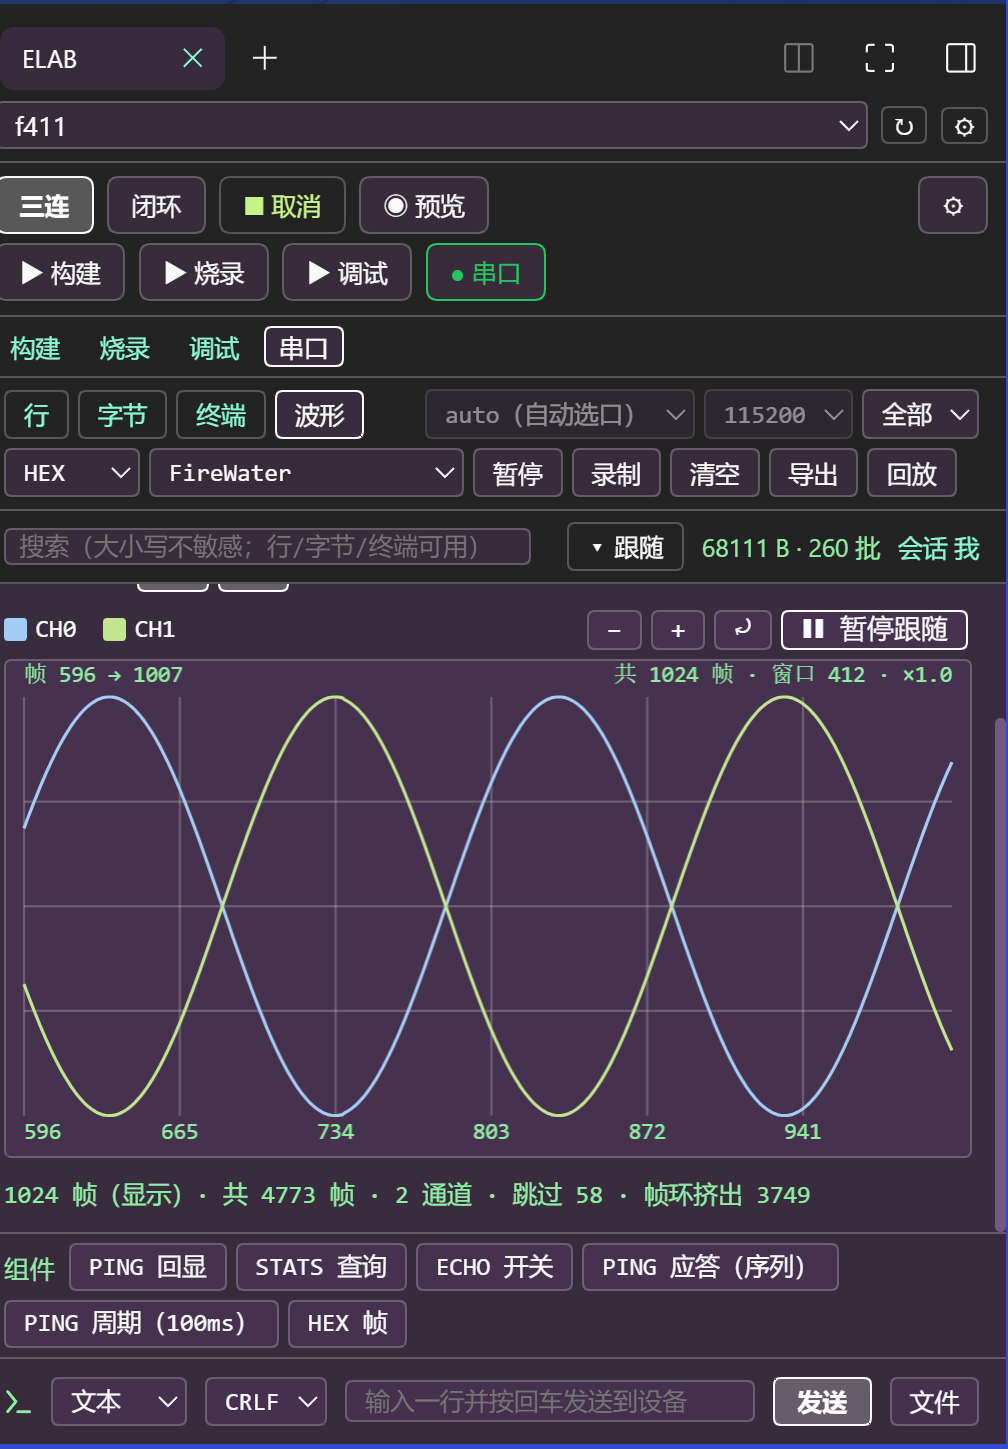
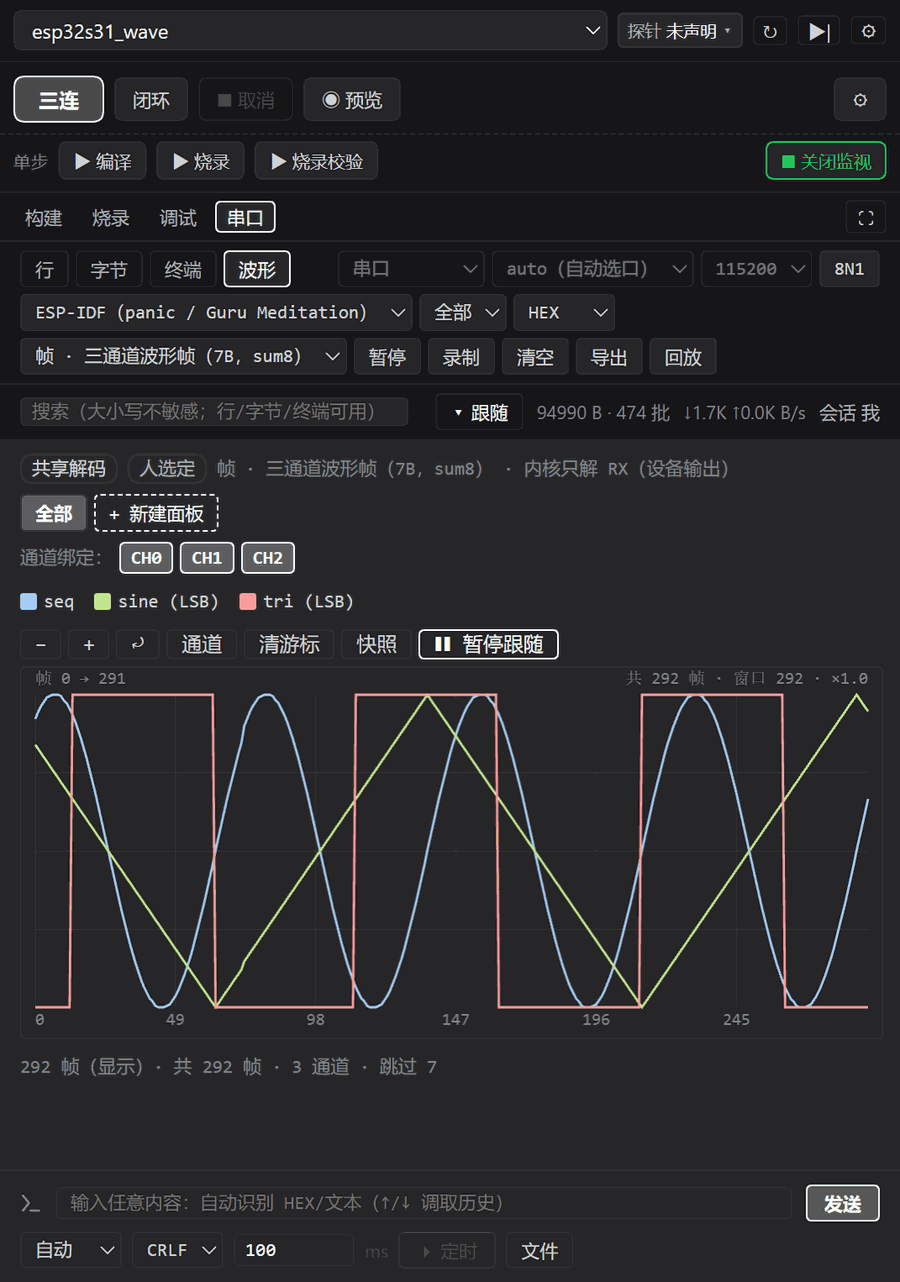
docs(market): 插件市场展示面更新 + Release 发布流程沉淀
市场展示面（卡片图 + 简介）
- 卡片图：2 张 v3.0.0 时期的旧 UI 换成 4 张 v4.0.0 真机窄栏图
  （闭环三连 / 串口监视 / 源码级调试 / 波形解码），`screenshots.json` 同步；
  删掉被取代的 `dsh-serial-lines.png`。
- 压缩配方：LANCZOS 缩放（统一宽 900）+ P256 调色板量化（244 KB → 83 KB），
  量化后目视复查文字清晰无色带；npm 包体积反而从 612.1 kB 降到 562.8 kB。
- 市场条目中英简介按新能力面重写：多芯（STM32/AT32/ESP32）、源码级调试、
  帧协议解码、Agent 自学习协议。

GitHub Release 发布物料
- 新增 `docs/releases/v4.0.0.md`：tag `v4.0.0` 的 Release 正文，
  含定位 / 本版要点 / 安装 / 升级注意 / 验证状态五块，可直接当 `--notes-file`。
- `docs/README.md` 登记 `releases/` 分类。

skill 沉淀（`.agents/skills/elab-release`）
- §7 扩为「dsh-market」两节：7.1 展示面 = 图 + 简介（两者来源不同、必须同步改）、
  压缩配方、选图标准、流程；7.2 什么变化走探针、什么变化要提市场 PR。
- 新增 §8「主仓 GitHub Release 同步发布」：正文入库而非临时现编、
  发布顺序（main → CI 绿 → tag → Release）、挂已推送 tag、
  无 gh CLI / 网络不通时只备料不发、「发布 ≠ 改文件」的边界。
- §2 清理节加一条反向守卫：screenshots.json 列了但 assets 没有 = 市场图裂了。
- §5 网络节改为「先探测端口再推」，并记录本次实测：4507/7890/7891/10809 全关、
  api.github.com 不可达、npm registry 直连可用。
- §11 纪律补一条：用户说「先不推送」时只做到物料备好 + 本地提交。

门禁：插件 npm test 156 pass / tsc host+client 无错 / npm run build PASS；
内核 unittest 638 passed 5 skipped；改动文件行尾与 HEAD 比对 0 翻转。

未推送：本次为本地改动，push / npm publish / gh release create 均未执行
（代理未开，等指令）。

diff --git a/.agents/skills/elab-release/SKILL.md b/.agents/skills/elab-release/SKILL.md
@@ -1,6 +1,6 @@
 ---
 name: elab-release
-description: elab-Flow 主仓与 dsh-elab-cockpit 插件的版本更新、发版与维护流程（单仓单标签）：版本落点、门禁、内核 v* 标签、npm 发布、dsh-market 自动刷新与回滚。触发：用户说要发版 / 版本更新 / 升级版本 / 打 tag / npm publish / 发布插件 / 市场更新 / 维护仓库。
+description: elab-Flow 主仓与 dsh-elab-cockpit 插件的版本更新、发版与维护流程（单仓单标签）：版本落点、门禁、内核 v* 标签、npm 发布、GitHub Release 同步发布、插件市场展示面（截图 + 简介）更新、dsh-market 自动刷新与回滚。触发：用户说要发版 / 版本更新 / 升级版本 / 打 tag / npm publish / 发布插件 / 发 release / 市场更新 / 换市场图 / 改市场简介 / 维护仓库。
 ---
 
 # elab-Flow 版本更新与发布
@@ -32,7 +32,9 @@ description: elab-Flow 主仓与 dsh-elab-cockpit 插件的版本更新、发版
 - 临时文件：`tmp_*.txt`、`tmp_*` 配置、根目录调试脚本。
 - 缓存：`__pycache__/`、`.pytest_cache/`、构建中间物（`.work/` 不入库）。
 - 未引用截图：`git grep --fixed-strings <文件名>` 计数为 0 且不在 `screenshots.json` 的才删。
+  —— 反过来也成立：`screenshots.json` 里列了但 `assets/` 里没有 = 市场展示图裂了，发版前必查。
 - 确认构建产物归属：`cockpit/web/dist/**` 与插件 `lib/**` 是**入库产物**，改源码后必须重建。
+- 市场展示图与简介：见 §7（换图 = 改 `assets/` + 改 `screenshots.json` + 改市场条目简介）。
 
 ## 3. 门禁（缺一不可）
 
@@ -85,14 +87,22 @@ git push origin v3.0.0        # ② 绿了再推 tag
 
 ## 5. 网络与代理（GitHub 推送）
 
-- 本机系统代理常为 `127.0.0.1:7890`（Clash mixed，HTTP/SOCKS 都收）。git 不读系统代理，
-  需要显式给：
-  ```powershell
-  git -c http.proxy=http://127.0.0.1:7890 -c https.proxy=http://127.0.0.1:7890 push origin main
+- **代理端口会变，每次先探测再推**，不要沿用文档里的旧端口：
+  ```bash
+  for p in 4507 7890 7891 10809; do
+    timeout 2 bash -c "echo > /dev/tcp/127.0.0.1/$p" 2>/dev/null && echo "$p OPEN" || echo "$p closed"
+  done
+  ```
+  本机历史端口：`7890`（Clash mixed）、`7891`、`4507`（环境变量口）。**以实测为准**。
+- git 不读系统代理，需要显式给：
+  ```bash
+  git -c http.proxy=http://127.0.0.1:<探测到的端口> -c https.proxy=http://127.0.0.1:<端口> push origin main
   ```
 - 节点抖动时会报 `schannel: failed to receive handshake` 或 `unexpected eof` —— **重试 1–2 次**
   通常就好；持续失败再换节点，不要误判为凭据问题。
-- 无代理时 `api.github.com` 常不可达；`npm publish` 可直连，不用代理。
+- **代理全关时**：`api.github.com` / `github.com` 不可达，但 `registry.npmjs.org` 通常直连可用。
+  此时**只做本地改动**（版本号 + 物料 + 提交），push / publish / release 全部等指令；
+  别反复重试网络（见 §8.3 与 §11 纪律）。
 
 ## 6. npm 发布
 
@@ -119,7 +129,115 @@ npm publish                         # 默认 latest
   `packages/dsh-elab-cockpit/docs/dsh-market-submission/`。
 - 截图来源：插件根 `screenshots.json`（路径相对包根），新图必须同时进 `assets/`。
 
-## 8. 发布后核对
+### 7.1 展示面 = 图 + 简介，两样必须一起更新
+
+市场条目拆成两块，**由不同来源提供**，只改一块会露馅：
+
+| 展示位 | 来源 | 改法 |
+|---|---|---|
+| 卡片图（多张轮播） | 插件根 `screenshots.json` → `assets/*.png` | 换图 + 改 `screenshots.json` 清单 |
+| 卡片简介（中英） | 市场条目 yml 的 `description.en` / `description.zh` | 改 yml（备份在本仓 `docs/dsh-market-submission/`） |
+
+**换图时两处都要动**：`screenshots.json` 是清单（决定展示哪几张、什么顺序），
+`assets/` 是图本体。只加图不改清单 = 新图不展示；只改清单不换图 = 展示的还是旧 UI。
+
+图的选择标准：**必须是当前 UI 的真机窄栏截图**，且覆盖版本的核心能力面。
+不要用 WebUI 宽屏图（那是独立 WebUI，DSH 插件展示的是窄栏）。
+
+**压缩配方**（市场图进 npm 包，别把包撑大）：
+
+```python
+from PIL import Image
+im = Image.open(src).convert('RGB')
+r = im.resize((900, round(im.height * 900 / im.width)), Image.LANCZOS)   # 统一宽 900
+r.quantize(colors=256, method=Image.FASTOCTREE,
+           dither=Image.FLOYDSTEINBERG).save(dst, optimize=True)          # P256 量化
+```
+
+- LANCZOS 缩放 + 256 色调色板量化：244 KB → 83 KB，肉眼无色带、文字仍清晰。
+- **量化后必须目视复查**（看整图 + 裁一块放大看文字），别只看文件大小。
+- `ffmpeg` 能用但压 PNG 收益差（只做 `scale` 反而变大），优先 Pillow。
+
+**流程**：
+
+1. 从 `docs/tutorials/assets/dsh/`（DSH 窄栏）与 `docs/tutorials/assets/wave/`（窄栏波形）
+   挑真机图；`webui/` / `serial-frames/` 是独立 WebUI，**不要**用于插件市场。
+2. 按上式压缩，落到 `packages/dsh-elab-cockpit/assets/<语义名>.png`。
+   命名用语义（`dsh-closed-loop.png` / `dsh-serial-monitor.png` / `dsh-debug-source.png` /
+   `dsh-serial-wave.png`），不要用序号 —— 删图后序号会错位。
+3. 改 `screenshots.json` 清单（顺序 = 展示顺序，第一张是封面）。
+4. 改市场条目 yml 的 `description.en` / `description.zh`（本仓备份文件里改）。
+5. `npm pack --dry-run` 核对包体积；`JSON.parse` 校验 json 合法。
+6. 提交后推 main → 探针次日刷新；**简介变化要另提 awesome-dsh-plugin 的 PR**
+   （展示信息不走探针刷新）。
+
+### 7.2 什么时候必须提市场 PR
+
+| 变化 | 走探针（推 main 即可） | 要提 PR |
+|---|---|---|
+| 版本号 / 下载量 | ✅ | |
+| 卡片图（`screenshots.json` + `assets/`） | ✅ | |
+| 简介 / 分类 / 名字 | | ✅ |
+
+提 PR 前确认备份 yml 与目标一致（`packages/dsh-elab-cockpit/docs/dsh-market-submission/`）。
+
+## 8. 主仓 GitHub Release（同步发布）
+
+内核发版（打 `vX.Y.Z` tag）时，**GitHub Release 与 tag 一起发**，否则 tag 只是个指针，
+用户点进去没有说明。插件单独发版**不发**主仓 Release。
+
+### 8.1 Release 正文放仓库里，不临时现编
+
+正文文件：**`docs/releases/vX.Y.Z.md`**（如 [v4.0.0.md](file:///c:/Users/xiao1/Desktop/ELAB/dsh-elab-flow/docs/releases/v4.0.0.md)），
+入库、跟着版本走、可回溯。发布时直接把它当 body。
+
+正文按这五块写（现成范例见 `docs/releases/v4.0.0.md`）：
+
+1. **这是什么** —— 一句话定位 + 本版是主仓大版本还是插件版；
+2. **本版要点** —— 按能力面分节，每节 3–6 条，动词开头（"新增…/支持…/迁移为…"），
+   写**做了什么**而不是改了哪个文件；
+3. **安装** —— 可直接复制的命令（npm / git clone / bootstrap）；
+4. **升级注意** —— 破坏性变更、兼容下限、迁移提示（用户最需要的一段，别省）；
+5. **验证状态** —— 门禁结果表 + 实机验证过的机型。
+
+插件侧变更合并成正文里的一节（标注 `DSH 插件 x.y.z`），
+**不要**在主仓 Release 里贴插件的完整 CHANGELOG 条目。
+
+### 8.2 发布顺序
+
+```bash
+git push origin main                                  # ① 先推 main
+# ② 等 CI 绿（badge: .../plugin.yml/badge.svg?branch=main&cb=<随机数>）
+git tag -a v4.0.0 -m "elab-Flow v4.0.0"              # ③ 绿了再打 tag
+git push origin v4.0.0                               # ④ 推 tag
+gh release create v4.0.0 --title "elab-Flow v4.0.0" \
+  --notes-file docs/releases/v4.0.0.md                # ⑤ 发 Release（挂在已有 tag 上）
+```
+
+- **顺序不变**：先 main、再 tag、最后 Release。反过来会让 tag 自带红灯。
+- Release 必须**挂在已推送的 tag 上**（`gh release create vX.Y.Z`），不要让 GitHub 自动新建 tag ——
+  自动建的 tag 可能指向错误的提交。
+- 用 `--notes-file` 而不是 `--notes`（正文长，命令行转义容易出错）。
+
+### 8.3 没有 gh CLI / 网络不通时
+
+本机**无 `gh` CLI**，且 GitHub 网页与 `api.github.com` 在直连下常不可达（需代理）。
+这种情况**只备料不发布**：把 `docs/releases/vX.Y.Z.md` 写好入库、tag 打本地，
+等网络可用再执行 §8.2 的 ③④⑤ 步。**不要**为了发 Release 去动远端的其它状态。
+
+发 Release 属于**发布动作**，不是「改文件」——用户说「先不推送」时，
+只做到「物料备好 + tag 打本地」为止，push / publish / release 一律等明确指令。
+
+### 8.4 发布后核对（Release 专属）
+
+| 项 | 怎么查 |
+|---|---|
+| tag 存在且指向正确提交 | `git ls-remote --tags origin v4.0.0`（`^{}` 行才是提交） |
+| Release 存在 | `https://github.com/xkk6663/elab-flow/releases/tag/v4.0.0` |
+| Release 正文对得上 | 打开页面看首屏与「安装」段 |
+| 市场卡片图已换 | `https://awesome-dsh-plugin.com/p/xkk6663/elab-flow--packages-dsh-elab-cockpit/`（探针有延迟；简介要等 PR 合） |
+
+## 9. 发布后核对
 
 | 项 | 命令 / 来源 |
 |---|---|
@@ -132,16 +250,19 @@ npm publish                         # 默认 latest
 - **GitHub REST API 未认证时限流（60 次/小时，共享出口 IP 很容易 403）**：核对优先用
   badge，查 `actions/runs` 留给需要查看失败日志时。
 
-## 9. 回滚
+## 10. 回滚
 
 - 主仓：`git revert <commit>`；若内核版本已对外发布，再打新的 `v*` tag。**不要**强推 main。
 - npm：只能发更高版本修，或用 `dist-tag` 把 `latest` 指回旧版本。
 - 插件降级：用户侧固定旧版本安装；内核 `COCKPIT_VERSION` 与插件 `MIN_KERNEL_VERSION`
   决定兼容提示。
 
-## 10. 纪律
+## 11. 纪律
 
 - 业务层（`services/elab/**`、`cockpit/server.py`）与工具层（`packages/dsh-elab-cockpit/**`）
   不跨层 import；插件只走 loopback HTTP ICD。
 - 芯片知识只写 `packs/**`；改包后 `elab pkg index` 重生成 `market/index.json`。
 - 改 `cockpit/server.py` 后，本仓与用户的 elab 工作检出**两份都要同步**。
+- **发版是发布，改文件是改文件**：用户说「先不推送 / 代理没开」时，只做到
+  「版本号落地 + 物料备好 + 本地提交」，`push` / `npm publish` / `gh release create`
+  一律等明确指令（见 §8.3）。

diff --git a/docs/releases/v4.0.0.md b/docs/releases/v4.0.0.md
@@ -1,0 +1,123 @@
+# elab-Flow v4.0.0 发布说明
+
+> GitHub Release 正文。tag `v4.0.0` 指向本版本内核提交。
+> 详细变更见 [`CHANGELOG.md`](../../CHANGELOG.md) 的 `[V4.0.0]` 与 `[DSH 插件 1.0.0]` 两条。
+
+## 这是什么
+
+**elab-Flow v4.0.0** —— 嵌入式闭环开发驾驶舱。agent 在一个面板里完成「发现 → 编译 → 烧录 → 调试校验 → 串口闭环」，
+开发过程对用户全程可视化（阶梯进度、实时日志、RAM/FLASH 占用、多通道波形）。
+
+本版是主仓大版本，同步发布 **DSH 插件 1.0.0**（npm 包 `dsh-elab-cockpit`）。
+
+## 本版要点
+
+### 帧协议补强：位域 / 变长 / 多 ID / 组帧
+
+- 字段支持 `bit_offset` / `bit_length` / `bit_order`（`lsb0` 默认、`msb0` 线性大端位流），
+  有符号位域做符号扩展，位域只允许整型。
+- 新增 `frame.length_field`（`type: u8|u16`、`offset/endian/mul/add`）与 `frame.id_field` + `variants`
+  （按 id 分发字段，未命中进 `unknown_id` 并跳过）。
+- 新增 `serialcodec.encode`：字段值 → 字节（枚举 label、逆 `scale/bias`、位写入、
+  固定长/变长反算、head/tail/id/length/checksum 自动写）。
+- 只读模板库 `templates/frames/*.json`：`telemetry_u16`、`mavlink_v1`、`modbus_rtu`、`dlt645_read`。
+- **兼容红线**：旧 profile 输出形状不变，未启用新特性时不出现 `length_field` / `id_field` / `variants` 键。
+
+### Agent 自学习协议（★ 新能力）
+
+不写一行命令，从陌生字节到直播解码：
+
+1. 串口监视出现陌生字节 → 复制样本 HEX；
+2. `elab_frame_learn action=learn` 产出草稿（置信度 / 回放验证 / 等长证据链）；
+3. 人复核字段名 → 落盘保存；
+4. 解码器下拉选 profile → 直播解码。
+
+配套 `verify` / `auto` / `codegen`，learn 只产草稿不落盘。
+
+### 工具链 provider（数据与执行分离）
+
+- 新增 `services/elab/provider.py`：manifest 校验、版本约束、注册表、`ResolvedToolchain` 解析、
+  安装/卸载与内容哈希复核。
+- `elab provider list|search|install|remove`、`elab.lock.yaml`、`elab doctor --strict-lock`；
+  `market/index.json` 新增 `providers` 数组。
+- ESP32-S31-Korvo 工程迁移为 `provider: espressif/idf@>=1 <2`，ESP-IDF v6.1 实机跑通
+  编译 → 烧录 → 烧录校验 → 串口心跳闭环。
+
+### DSH 插件 1.0.0：Agent 工具门面化 27 → 14
+
+**破坏性变更**。注册面从 27 个平铺 `elab_*` 工具收敛为 **14 个混合门面**：
+
+| 门面 | action 枚举 |
+|---|---|
+| `elab_run` | build / triple / loop / step / preview / cancel |
+| `elab_serial` | monitor / write / decode / decoded / stats / read / wait |
+| `elab_debug` | open / control / inspect / breakpoint / wait / close |
+| `elab_frame` | list / get / preview / save / delete / encode / templates / import |
+| `elab_frame_learn` | learn / verify / auto / codegen |
+| `elab_pkg` | status / search / install / activate / remove / update / verify / adapt |
+
+另有 8 个高频细粒度入口：`elab_status` · `elab_guide` · `elab_log` · `elab_serial_read` ·
+`elab_serial_wait` · `elab_serial_capture` · `elab_serial_widget` · `elab_debug_inspect`。
+
+- `elab_guide` 升级为 **group → action 两层意图树**，每个入口带同义词、前置条件与调用示例；
+  支持 `topic=overview|run|serial|debug|frame|pkg` 只取一组。
+- 工具契约上移 domain 层（`src/domain/tools.ts`），执行实现留在 adapters。
+- **过渡期**：插件配置 `toolMode: both` 会额外注册 17 个旧名别名（带废弃提示，执行全转发门面，
+  零重复实现）。默认 `facade` 不注册，上下文最省。
+
+### 流程清单归位
+
+`STEP_META` / `KERNEL_PLANS` 从 `cockpit/server.py` 挪到 **`services/elab/flow.py`**
+（流程清单 = 芯片无关的步骤词汇与三档定义，唯一事实源），驾驶舱只引用不复制。
+新增回归测试守卫「server.py 不得再内联流程清单」。
+
+### 收尾健壮性批次
+
+盘点报告 `docs/reports/健壮性盘点_2026-11-05.md` 的 11 条**全部处置**（8 条修复 + 3 条以更轻手段收敛）：
+
+- `GET /api/runs/active` 只读进程内活动登记簿；`list_runs` 只读首尾行；
+- SSE 上限 8 → 16；调试壳层 SSE 按需建；断流状态可感知；
+- 串口四路合并轮询（每拍 1 个请求带回四路增量）；全部 fetch 加超时；
+- run 清理入口 `events.prune_runs(keep, days, dry_run)`；
+- 强杀内核不再留孤儿 openocd（Windows Job Object 兜底）。
+
+## 安装
+
+```bash
+# DSH 插件（npm）
+npm install dsh-elab-cockpit
+# 或从源码路径装
+dsh plugin --profile web add github:xkk6663/elab-flow#path:/packages/dsh-elab-cockpit
+
+# 内核（从源码运行，无第三方依赖，Python ≥ 3.10）
+git clone https://github.com/xkk6663/elab-flow.git
+cd elab-flow && ./elab.cmd pkg bootstrap    # Windows 用 elab.cmd
+```
+
+上板另需 CMake + Ninja + ARM GCC + OpenOCD。
+
+## 升级注意
+
+- 插件默认下载的内核版本同步为 `v4.0.0`；最低兼容内核仍是 `2.1.0`（`MIN_KERNEL_VERSION`，仅提示不阻断）。
+- 若你的 agent 脚本用的是旧工具名（`elab_triple` / `elab_frame_profile` / `elab_debug_open` …），
+  打开 `toolMode: both` 过渡，或按 `elab_guide` 给出的迁移表改写。
+- 旧 `elab_serial(project, data)` 直写形态由新门面的参数推断兼容（`action` 可省）。
+
+## 验证状态
+
+| 项 | 结果 |
+|---|---|
+| 插件 `npm test` | 156 pass / 0 fail |
+| 插件 `tsc --noEmit`（host + client） | 无错 |
+| 插件 `npm run build` | PASS（client.js 392285 B，满足宿主 ModuleLoader 契约） |
+| 内核 unittest | 638 passed / 5 skipped / 0 failed |
+| `elab doctor` | 通过 |
+| `elab pkg index --check` / `elab lock --check --strict` | 均一致 |
+
+实机验证机型：STM32F103C8T6（COM10 @115200）、STM32F411CEU6、AT32F421G8U7、ESP32-S31-Korvo。
+
+## 文档
+
+- 串口面板使用教程（含 §5.7 帧协议自学习按钮实操）：`docs/tutorials/07-串口面板使用.md`
+- DSH 插件上手：`docs/tutorials/05-DSH插件上手_STM32F103C8T6.md`
+- 完整变更日志：`CHANGELOG.md`

diff --git a/docs/README.md b/docs/README.md
@@ -46,6 +46,12 @@
 | [性能基准_串口帧解码_2026-11-05](reports/性能基准_串口帧解码_2026-11-05.md) | P3.3 解码基准：64B 档 p95 0.6 ms、吞吐 ≥192 KB/s；含门槛对照与后续优化顺序 |
 | [健壮性盘点_2026-11-05](reports/健壮性盘点_2026-11-05.md) | 收尾前全仓健壮性盘点：11 条问题分级 + 实测取证（P0 `list_runs` 全量重放等）；全部条目已处置，含逐条结果 |
 
+## releases/ —— GitHub Release 发布说明
+
+| 文档 | 内容 |
+|---|---|
+| [v4.0.0 发布说明](releases/v4.0.0.md) | tag `v4.0.0` 的 GitHub Release 正文（发版时直接贴/上传）；含帧协议补强、Agent 自学习协议、Provider 工具链、插件 1.0.0 工具门面化、安装与升级注意、验证状态 |
+
 ## tutorials/ —— 上手与贡献教程
 
 | 文档 | 内容 |

diff --git a/.agents/skills/elab-agent/SKILL.md b/.agents/skills/elab-agent/SKILL.md
@@ -115,4 +115,5 @@ services/elab/**                                解析（ResolvedToolchain）→
 - 某步骤不可用：看 `/api/projects` 卡片 `steps` 的 `kind/reason`，或 `run --dry-run` 的 `blocked`。
 - provider 报错：`elab provider list` 看 installed/steps，再对照方案 §8 的失败表。
 - 串口收不到/判据 inconclusive：先看 `GET /api/capabilities` 的 `meta.serial`，再用 `elab monitor --caps`。
-- 版本/发布：`elab-release` skill。
+- 版本/发布：`elab-release` skill（版本落点、门禁、tag、npm 发布、**GitHub Release 同步发布**、
+  **插件市场展示面 = 卡片图（`assets/` + `screenshots.json`）+ 中英简介**）。
